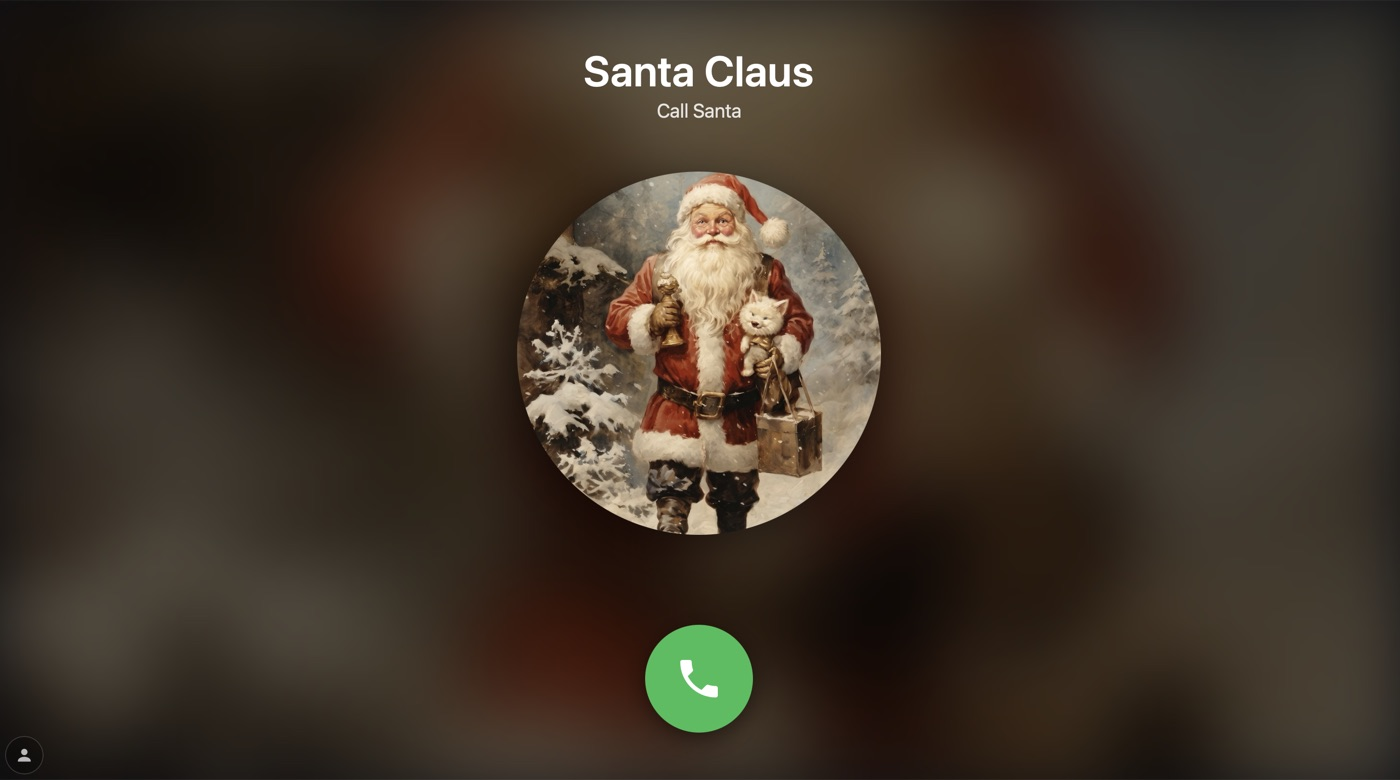
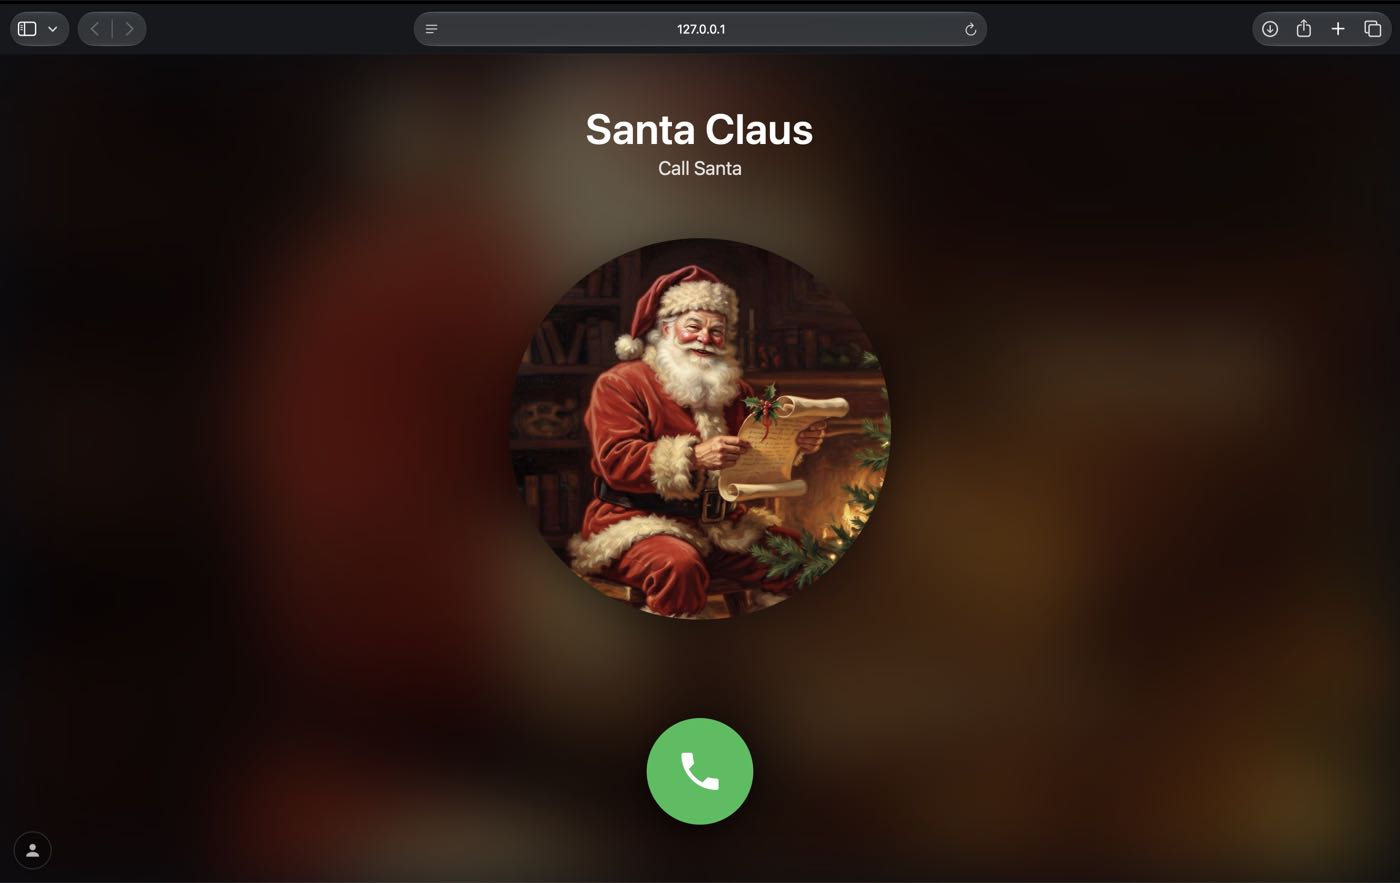
Built-in Santa picture: a painted Santa (CC0) replaces the drawn SVG
santa/web/static/santa-default.jpg (1000x1000, owner-made with an AI image
tool, no metadata) is the new default for /santa-image; santa.svg is
removed. local/santa.* and the legacy static/santa.jpg still come first.
The README screenshot is retaken with it. README states the picture is
CC0 1.0 and that the MIT licence covers the code, not the picture.

Test: tests/spec/test_local_dir.py expects the JPEG default.

diff --git a/tests/spec/test_local_dir.py b/tests/spec/test_local_dir.py
@@ -47,7 +47,7 @@ def test_profiles_move_to_local_but_an_old_root_file_still_works(tmp_path, monke
     assert local.profiles_path() == tmp_path / "local" / "profiles.json"
 
 
-def test_call_page_serves_your_picture_else_the_drawing(tmp_path):
+def test_call_page_serves_your_picture_else_the_painting(tmp_path):
     from fastapi.testclient import TestClient
     from test_network_mode import app_for
 
@@ -57,7 +57,7 @@ def test_call_page_serves_your_picture_else_the_drawing(tmp_path):
         assert c.get("/santa-image").content == pic.read_bytes()
     with TestClient(app_for(santa_image=None)) as c:
         r = c.get("/santa-image")
-        assert r.headers["content-type"].startswith("image/svg")
+        assert r.headers["content-type"].startswith("image/jpeg")
 
 
 # ------------------------------------------------------------------------------- one settings parser (2026-11-10)

diff --git a/santa/web/server.py b/santa/web/server.py
@@ -208,9 +208,9 @@ def create_app(settings: Settings | None = None, alerter: Alerter | None = None,
 
     @app.get("/santa-image")
     async def santa_image():
-        # your picture in local/ (gitignored), else the older static/santa.jpg spot, else the drawn Santa
+        # your picture in local/ (gitignored), else the older static/santa.jpg spot, else the built-in painting
         legacy = STATIC / "santa.jpg"
-        pic = s.santa_image or (legacy if legacy.is_file() else STATIC / "santa.svg")
+        pic = s.santa_image or (legacy if legacy.is_file() else STATIC / "santa-default.jpg")
         return FileResponse(pic, headers={"Cache-Control": "no-cache"})
 
     @app.get("/status")

diff --git a/santa/local.py b/santa/local.py
@@ -10,7 +10,7 @@ Default location: `local/` in the repo (gitignored). Set SANTA_LOCAL_DIR to keep
       transcripts/    chat.py saves a transcript here whenever a typed session had at least one reply; /forget deletes them
       certs/          HTTPS certificate + key for `python -m santa.web --network`
 
-The code in git only knows these file names. A missing file falls back to the project default (the drawn Santa,
+The code in git only knows these file names. A missing file falls back to the project default (the painted Santa,
 no PIN, and so on).
 """
 import os

diff --git a/CHANGELOG.md b/CHANGELOG.md
@@ -6,6 +6,9 @@ Detail for each stage lives in `docs/history/STAGE_*.md`. Design lives in `docs/
 
 ## [Unreleased]
 
+### Built-in Santa picture
+- The call screen's built-in picture is now a painted Santa (`santa/web/static/santa-default.jpg`, 1000x1000) instead of the drawn SVG, which is removed. Your own `local/santa.*` and the older `static/santa.jpg` still come first. The README screenshot is retaken with it. The painting was made by the project owner with an AI image tool and is marked CC0 1.0 (no copyright claimed, any rights waived), separate from the MIT licence of the code. Test: `tests/spec/test_local_dir.py`.
+
 ### Security fixes (VulnHunter scan 2026-11-19)
 - The children's data is private to your macOS account however Santa is started (VULN-009, VULN-014, VULN-015, Low). Before, only `start-santa.sh` set a private umask; `python -m santa.web`, `run-web.sh` and `chat.py` left the profiles, their `.bak` and `.corrupt` copies, chat transcripts and `--debug-audio` recordings readable by other accounts on the Mac (files 0644, folders 0755). Now these files are created 0600 and their folders 0700, both entry points set umask 077, and an older readable profiles file becomes 0600 at its next save. Test: `tests/spec/test_private_files.py`.
 - One device on the network can no longer stop the family from entering the PIN (VULN-003, Medium). Before, every request from a device without the PIN (the PIN page, any path, a refused WebSocket) used up one shared limit of 10 a minute, so one device sending 10 cheap requests a minute made the right PIN fail with "Too many tries" on every device. Now only PIN tries count, a device that is locked out is not counted again, and one device can use at most 5 of the 10. The shared limit still holds a guesser using many addresses. Tests: `tests/spec/test_pin_rate_limit.py`; `test_network_mode.py` and `test_alerts.py` updated to the new rule.

diff --git a/README.md b/README.md
@@ -244,9 +244,12 @@ and certificates are never committed; the code only knows the file names. Templa
 template `local.example/santa.env.example`; every setting is in [docs/configuration.md](docs/configuration.md)); a
 value set in your shell wins.
 
-**Santa's picture.** The call screen shows a drawn Santa (`santa/web/static/santa.svg`). To use your own picture, save
+**Santa's picture.** The call screen shows a painted Santa (`santa/web/static/santa-default.jpg`). To use your own picture, save
 it as `local/santa.jpg` (or `.png` / `.webp`; square works best, for example 800x800) and restart Santa. Remove it and
-restart to go back to the drawing, or edit the SVG to change the drawing.
+restart to go back to the painting. The painting was made by the project owner with an AI image tool. No copyright is
+claimed in it, and any rights the owner may have are waived under
+[CC0 1.0](https://creativecommons.org/publicdomain/zero/1.0/), so it is free to use for any purpose. The MIT licence
+covers the code, not this picture.
 
 **Santa's name.** The name appears in two places, and you will usually want to change both:
 - *On screen*, in `santa/web/static/index.html`: the big name on the call screen (`<div id="name">Santa Claus</div>`),

diff --git a/local.example/README.md b/local.example/README.md
@@ -32,7 +32,7 @@ SANTA'S WORLD (these facts never change; always answer the same way)
 - Use only these names. Never invent other names, and never change them.
 ```
 
-Every file is optional: without it, the app uses its default (the drawn Santa, no children, no PIN).
+Every file is optional: without it, the app uses its default (the painted Santa, no children, no PIN).
 
 Restart Santa after editing anything in `local/`: these files are read once, when Santa starts.
 
